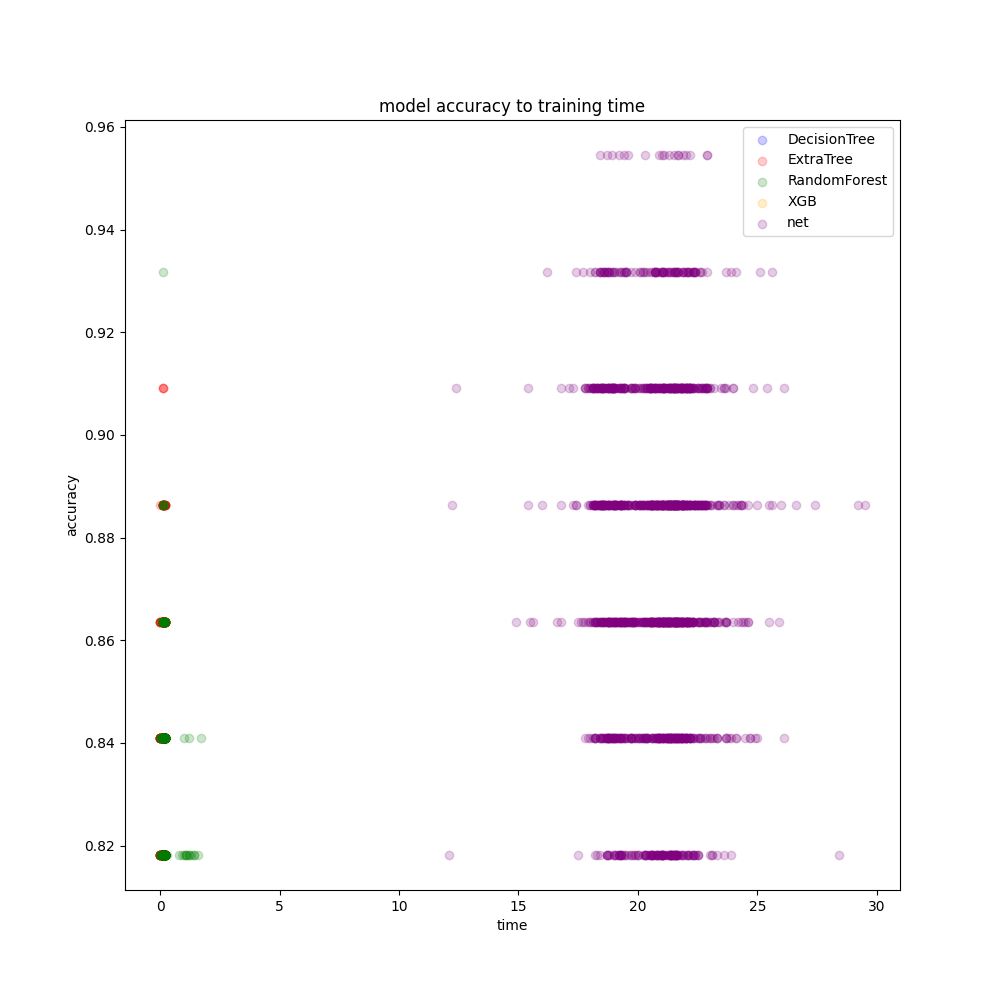
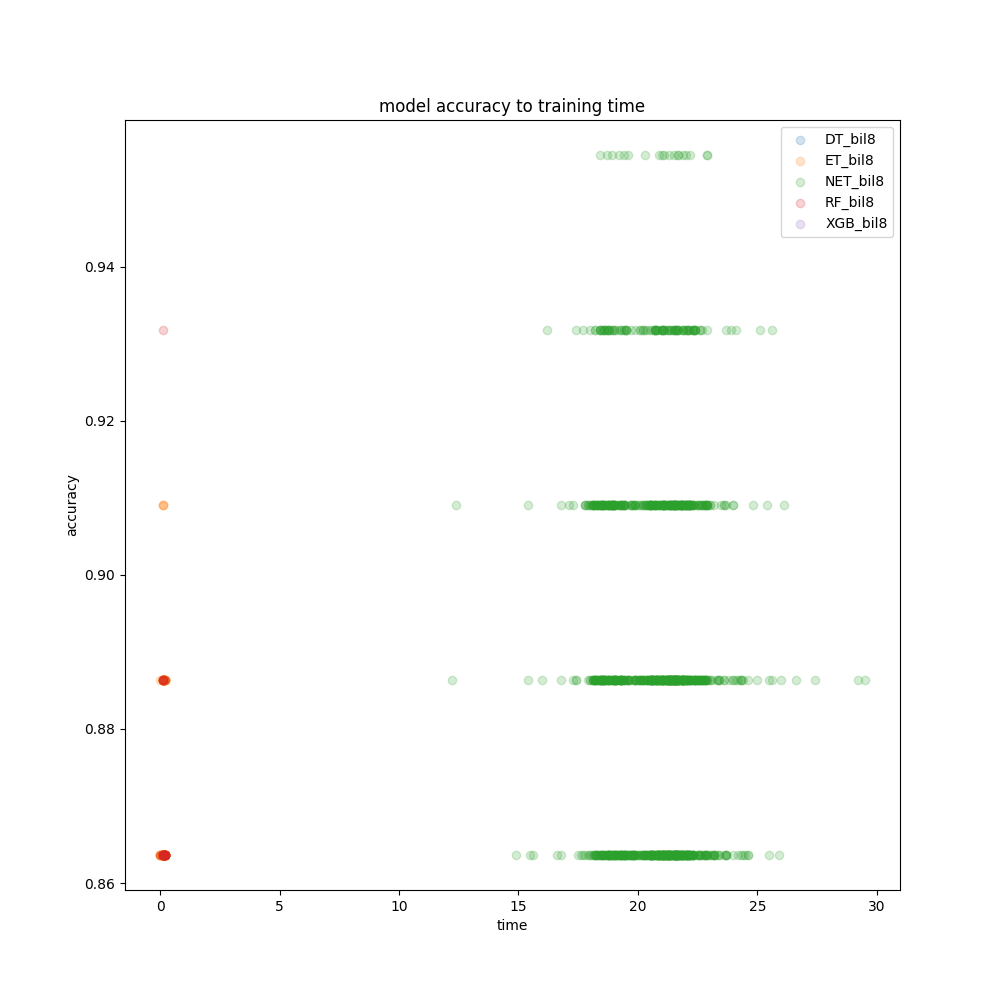
accuracy to time visualisation correction

diff --git a/scripts/Main.py b/scripts/Main.py
@@ -3,39 +3,39 @@ import subprocess
 from scripts import DataManipulator, Visualizer, Util
 
 if __name__ == "__main__":
-    # print('processing data')
-    # DataManipulator.process('../data/images/raw', '../data/images/parsed', '../data/in_csv',
-    #                         minimisation_scales=list(range(2, 21)), filenames=['set1.png'])
-    # print('visualising data')
-    # Visualizer.visualise_symbols('../data/images/parsed', '../data/images/symbols', f'../graphs/blended.png')
-    # Visualizer.visualise_pca_variance('../data/in_csv', '../graphs/PCA/variancePCA.png')
-    # print('conducting tests for trees:')
-    # trees_result = subprocess.run(['../.venv/Scripts/python.exe', 'Trees.py', "__trees__"], text=True)
-    # print('visualising results for trees')
-    # Visualizer.visualise_trees_results('../results/bil/DT_bil8', '../graphs/hiperparameters/DTacc',
-    #                                    missing=Visualizer.missing_dt_values)
-    # Visualizer.visualise_trees_results('../results/bil/ET_bil8', '../graphs/hiperparameters/ETacc',
-    #                                    missing=Visualizer.missing_et_values)
-    # Visualizer.visualise_trees_results('../results/bil/RF_bil8', '../graphs/hiperparameters/RFacc',
-    #                                    missing=Visualizer.missing_rf_values)
-    # Visualizer.visualise_trees_results('../results/bil/XGB_bil8', '../graphs/hiperparameters/XGBacc')
-    # print('conducting tests for NET_bil8')
-    # nets_result = subprocess.run(['../.venv/Scripts/python.exe', 'Neural.py', "__nets__"], text=True)
-    # print('visualising results for NET_bil8')
-    # Visualizer.visualise_nets_results('../results/bil/NET_bil8', '../graphs/nets_acc')
-    # print('visualising trees and NET_bil8 comparisons')
-    # Visualizer.visualise_accuracy_to_time('../results/bil8', '../graphs/accuracy to time')
-    # Visualizer.visualise_accuracy_to_time('../results/bil8', '../graphs/accuracy to time (min acc)', min_accuracy=0.8)
-    # print('visualising best accuracy for bilinear and PCA tests')
-    # Visualizer.visualise_time_and_accuracy_over_dims('../results/PCA', '../graphs/PCA/PCAacc')
-    # Visualizer.visualise_time_and_accuracy_over_dims('../results/bil', '../graphs/bil/bil acc')
-    # print('visualising hiperparameters changes')
-    # Visualizer.visualise_params_popularity('../results/bil', '../graphs/bil')
-    # Visualizer.visualise_params_popularity('../results/PCA', '../graphs/PCA')
-    # print('finding best nets')
-    # Util.collect_best_nets('../results/PCA', '../results/best_nets', min_accuracy=0.97)
+    print('processing data')
+    DataManipulator.process('../data/images/raw', '../data/images/parsed', '../data/in_csv',
+                            minimisation_scales=list(range(2, 21)), filenames=['set1.png'])
+    print('visualising data')
+    Visualizer.visualise_symbols('../data/images/parsed', '../data/images/symbols', f'../graphs/blended.png')
+    Visualizer.visualise_pca_variance('../data/in_csv', '../graphs/PCA/variancePCA.png')
+    print('conducting tests for trees:')
+    trees_result = subprocess.run(['../.venv/Scripts/python.exe', 'Trees.py', "__trees__"], text=True)
+    print('visualising results for trees')
+    Visualizer.visualise_trees_results('../results/bil/DT_bil8', '../graphs/hiperparameters/DTacc',
+                                       missing=Visualizer.missing_dt_values)
+    Visualizer.visualise_trees_results('../results/bil/ET_bil8', '../graphs/hiperparameters/ETacc',
+                                       missing=Visualizer.missing_et_values)
+    Visualizer.visualise_trees_results('../results/bil/RF_bil8', '../graphs/hiperparameters/RFacc',
+                                       missing=Visualizer.missing_rf_values)
+    Visualizer.visualise_trees_results('../results/bil/XGB_bil8', '../graphs/hiperparameters/XGBacc')
+    print('conducting tests for NET_bil8')
+    nets_result = subprocess.run(['../.venv/Scripts/python.exe', 'Neural.py', "__nets__"], text=True)
+    print('visualising results for NET_bil8')
+    Visualizer.visualise_nets_results('../results/bil/NET_bil8', '../graphs/nets_acc')
+    print('visualising trees and NET_bil8 comparisons')
+    Visualizer.visualise_accuracy_to_time('../results/bil', '../graphs/accuracy to time', allowed_numbers=[8])
+    Visualizer.visualise_accuracy_to_time('../results/bil', '../graphs/accuracy to time (min acc)',
+                                          allowed_numbers=[8], min_accuracy=0.85)
+    print('visualising best accuracy for bilinear and PCA tests')
+    Visualizer.visualise_time_and_accuracy_over_dims('../results/PCA', '../graphs/PCA/PCAacc')
+    Visualizer.visualise_time_and_accuracy_over_dims('../results/bil', '../graphs/bil/bil acc')
+    print('visualising hiperparameters changes')
+    Visualizer.visualise_params_popularity('../results/bil', '../graphs/bil')
+    Visualizer.visualise_params_popularity('../results/PCA', '../graphs/PCA')
+    print('finding best nets')
+    Util.collect_best_nets('../results/PCA', '../results/best_nets', min_accuracy=0.97)
     print('processing full dataset')
     DataManipulator.process('../data/images/raw', '../data/images/parsed', '../data/in_csv')
     print('testing best nets')
     nets_result = subprocess.run(['../.venv/Scripts/python.exe', 'Neural.py', "__best-nets__"], text=True)
-

diff --git a/scripts/Visualizer.py b/scripts/Visualizer.py
@@ -167,13 +167,20 @@ def visualise_nets_results(input_path, output_path):
     Util.save_plot(output_path)
 
 
-def visualise_accuracy_to_time(input_dir, output_path, min_accuracy=None, max_time=None):
-    models = {'DecisionTree': [], 'ExtraTree': [], 'RandomForest': [], 'XGB': [], 'net': []}
+def visualise_accuracy_to_time(input_dir, output_path, allowed_models=None, allowed_numbers=None, min_accuracy=None,
+                               max_time=None):
+    models = dict()
     for name in os.listdir(input_dir):
-        for m in models:
-            if m in name:
-                for index, row in pd.read_csv(f'{input_dir}/{name}').iterrows():
-                    models[m].append((row['accuracy'], row['time']))
+        model = re.search(r'^(.*)_', name).group(1)
+        num = int(re.search(r'(\d+)$', name).group(1))
+        if allowed_models is not None and model not in allowed_models:
+            continue
+        if allowed_numbers is not None and num not in allowed_numbers:
+            continue
+        if name not in models:
+            models[name] = []
+        for index, row in pd.read_csv(f'{input_dir}/{name}').iterrows():
+            models[name].append((row['accuracy'], row['time']))
     plt.close()
     plt.figure(figsize=(10, 10))
     index = 0
@@ -183,9 +190,8 @@ def visualise_accuracy_to_time(input_dir, output_path, min_accuracy=None, max_ti
         if max_time is not None:
             points = [p for p in points if p[1] <= max_time]
         accuracies, times = [i[0] for i in points], [i[1] for i in points]
-        color = colors[index] if index < len(colors) else 'black'
         index += 1
-        plt.scatter(times, accuracies, label=name, color=color, alpha=0.2)
+        plt.scatter(times, accuracies, label=name, alpha=0.2)
     plt.legend()
     plt.xlabel('time')
     plt.ylabel('accuracy')
@@ -341,6 +347,3 @@ def visualise_best_nets_params(input_dir, output_path, min_accuracy=0.95, min_di
         axes[index].set_title(param)
     plt.tight_layout()
     Util.save_plot(output_path)
-
-
-visualise_best_nets_params('../results/PCA', '../graphs/best nets params')
